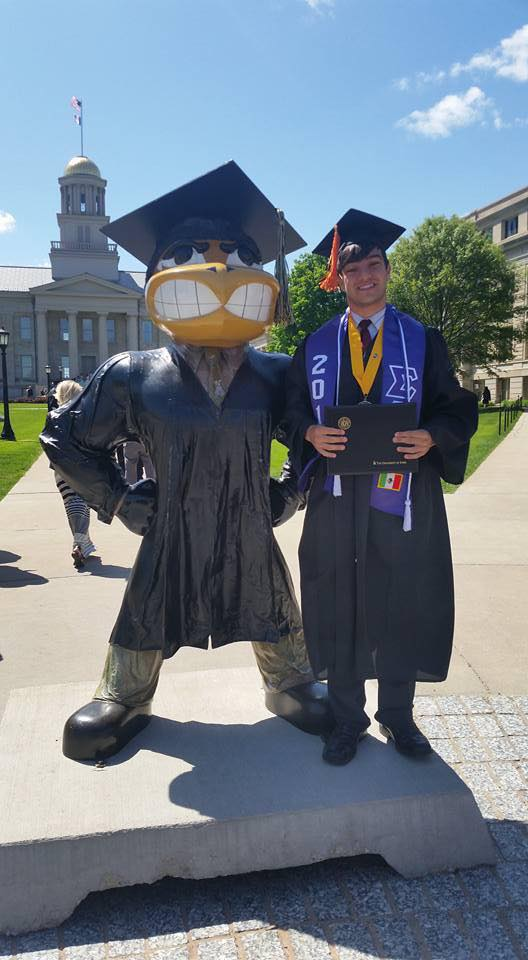
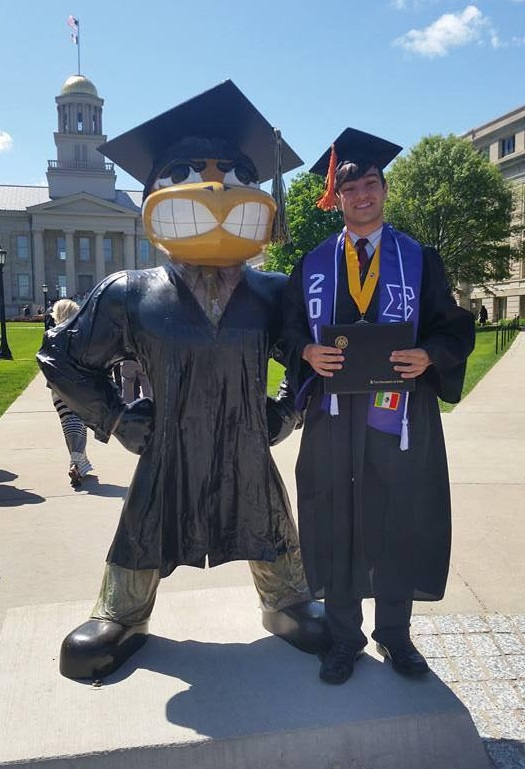
header, rough template done

diff --git a/_layouts/default.html b/_layouts/default.html
@@ -2,30 +2,36 @@
 	<html>
 		<head>
 			<title>{{ page.title }}</title>
-			<!-- link to main stylesheet -->
 			<link rel="stylesheet" type="text/css" href="/css/main.css">
 			<link rel="stylesheet" type="text/css" href="/css/skeleton.css">
 			<link rel="stylesheet" type="text/css" href="/css/normalize.css">
+			<link href="https://fonts.googleapis.com/css?family=Lato" rel="stylesheet">
 		</head>
+		<div id="top">
+			<div class="row wide" id="header-row">
+				<div class="twelve columns">
+					<h1 class="header name-header centered">RICARDO ZAMUDIO II</h1>
+				</div>
+			</div>
+			
+			<div class="row wide" id="header-row">
+	    		<div class="two columns offset-by-two">
+	    			<a class="button u-full-width" href="/bio">BIO</a></li>
+	    		</div>
+	    		<div class="two columns">	
+	    			<a class="button u-full-width" href="/resume">RESUME</a></li>
+	    		</div>
+	    		<div class="two columns">
+	    			<a class="button u-full-width" href="/projects">PROJECTS</a></li>
+	    		</div>
+	    		<div class="two columns">
+	    			<a class="button u-full-width" href="/blog">BLOG</a></li>
+	    		</div>
+			</div>
+		</div>
 		<body>
-			<nav>
-	    		<ul>
-	        		<li><a href="/">Home</a></li>
-		        	<li><a href="/about">About</a></li>
-	        		<li><a href="/cv">CV</a></li>
-	        		<li><a href="/blog">Blog</a></li>
-	    		</ul>
-			</nav>
-			<div class="container">
-			
-			{{ content }}
-			
-			</div><!-- /.container -->
-			<footer>
-	    		<ul>
-	        		<li><a href="mailto:ricardo.ii.zamudio@gmail.com">email</a></li>
-	        		<li><a href="https://github.com/zamud">github.com/zamud</a></li>
-				</ul>
-			</footer>
+			<div class="container" style="margin-top:10%">
+				{{ content }}
+			</div>
 		</body>
 	</html>

diff --git a/css/main.css b/css/main.css
@@ -1,43 +1,46 @@
-body {
-    margin: 60px auto;
-    width: 70%;
-}
-nav ul, footer ul {
-    font-family:'Helvetica', 'Arial', 'Sans-Serif';
-    padding: 0px;
-    list-style: none;
-    font-weight: bold;
-}
-nav ul li, footer ul li {
-    display: inline;
-    margin-right: 20px;
-}
-a {
-    text-decoration: none;
-    color: #999;
-}
-a:hover {
-    text-decoration: underline;
-}
-h1 {
-    font-size: 3em;
-    font-family:'Helvetica', 'Arial', 'Sans-Serif';
-}
-p {
-    font-size: 1.5em;
-    line-height: 1.4em;
-    color: #333;
-}
-footer {
-    border-top: 1px solid #d5d5d5;
-    font-size: .8em;
+.centered{
+    
 }
 
-ul.posts { 
-    margin: 20px auto 40px; 
-    font-size: 1.5em;
+h1,h2,h3,h4,h5,h6{
+    font-family: "Lato","Helvetica Neue",Helvetica,Arial,sans-serif;
 }
 
-ul.posts li {
-    list-style: none;
+h1.header{
+	font-size:4em;
+	font-weight:700;	
+}
+
+.wide{
+	width: 100%;
+}
+
+.name-header
+{
+	margin: auto;
+	padding-top:2%;
+	text-align: center;
+}
+
+#top {
+  position: fixed;
+  top: 0;
+  left: 0;
+  z-index: 999;
+  width: 100%;
+  height: 23px;
+}	
+
+#header-row{
+	background-color: #ffffff;
+}
+
+#footer {
+   position:fixed;
+   left:0px;
+   bottom:0px;
+   width:100%;
+   background:#ffffff;
+   padding-top: 1%;
+   padding-bottom:1%;
 }

diff --git a/_includes/picture.html b/_includes/picture.html
@@ -1,2 +1,2 @@
 
-<img src="Graduation.jpg" alt="My picture">
+<img src="Graduation.jpg" alt="My picture" height="600px" style="padding-left:25%">	
